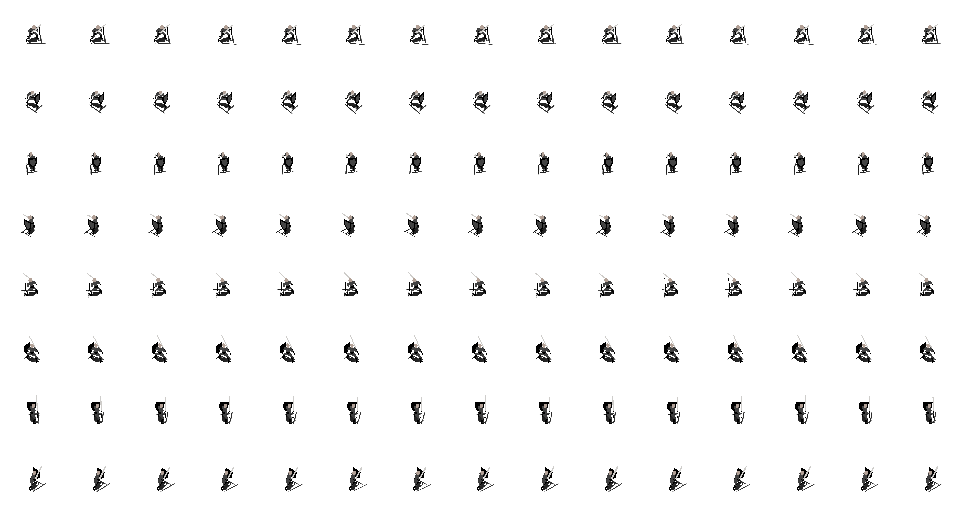
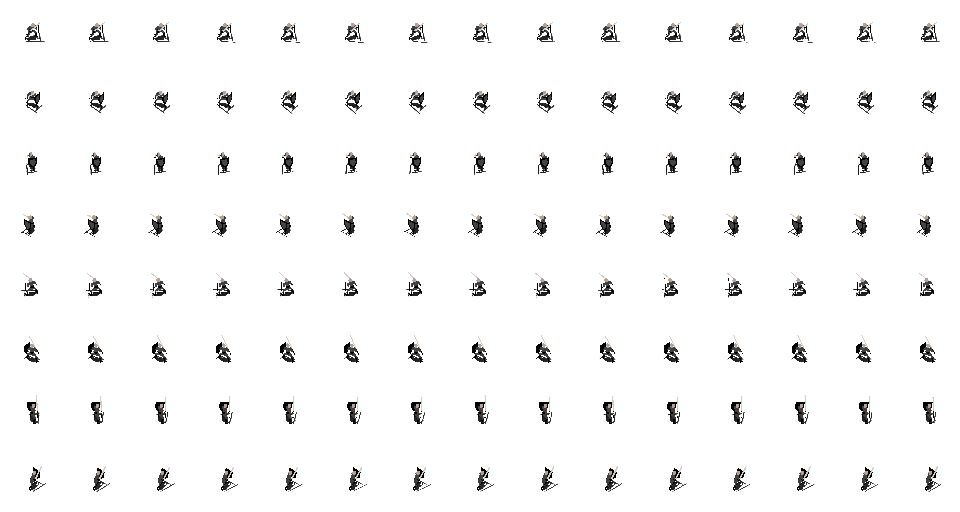
fix

diff --git a/main.go b/main.go
@@ -3,7 +3,6 @@ package main
 import (
 	"image"
 	"log"
-	"math"
 	"strconv"
 
 	"github.com/hajimehoshi/ebiten/v2"
@@ -21,9 +20,8 @@ const (
 	PLAYER_SPEED = 4
 
 	IDLE_ANIM_TPS = 6.0
-	RUN_ANIM_TPS  = 5.0
-	TURN_ANIM_TPS = 1.4
-	STOP_ANIM_TPS = 2.0
+	RUN_ANIM_TPS  = 3.0
+	STOP_ANIM_TPS = 0.5
 )
 
 type Game struct {
@@ -39,41 +37,23 @@ func (g *Game) Update() error {
 
 	inputX, inputY := 0, 0
 
-	if !g.Player.isAnimationLocked {
-		//move player
-		if ebiten.IsKeyPressed(ebiten.KeyRight) || ebiten.IsKeyPressed(ebiten.KeyD) {
-			inputX += 1
-		}
-		if ebiten.IsKeyPressed(ebiten.KeyLeft) || ebiten.IsKeyPressed(ebiten.KeyA) {
-			inputX -= 1
-		}
-		if ebiten.IsKeyPressed(ebiten.KeyUp) || ebiten.IsKeyPressed(ebiten.KeyW) {
-			inputY -= 1
-		}
-		if ebiten.IsKeyPressed(ebiten.KeyDown) || ebiten.IsKeyPressed(ebiten.KeyS) {
-			inputY += 1
-		}
-	} else {
-		// If locked (turning), maintain movement in the current direction
-		v := DirToVector[g.Player.CurrDirection]
-		inputX, inputY = v.X, v.Y
+	//move player
+	if ebiten.IsKeyPressed(ebiten.KeyRight) || ebiten.IsKeyPressed(ebiten.KeyD) {
+		inputX += 1
 	}
-
-	size := math.Sqrt(math.Pow(float64(inputX), 2) + math.Pow(float64(inputY), 2))
-	if size > 0 {
-		speed := float64(PLAYER_SPEED)
-		if g.Player.isAnimationLocked {
-			speed *= 0.1 // Redução de velocidade para o efeito de deslize
-		}
-		g.Player.Dx = (float64(inputX) / size) * speed
-		g.Player.Dy = (float64(inputY) / size) * speed
+	if ebiten.IsKeyPressed(ebiten.KeyLeft) || ebiten.IsKeyPressed(ebiten.KeyA) {
+		inputX -= 1
+	}
+	if ebiten.IsKeyPressed(ebiten.KeyUp) || ebiten.IsKeyPressed(ebiten.KeyW) {
+		inputY -= 1
+	}
+	if ebiten.IsKeyPressed(ebiten.KeyDown) || ebiten.IsKeyPressed(ebiten.KeyS) {
+		inputY += 1
 	}
 
 	g.Player.SetDirection(inputX, inputY)
 	g.Player.SetMode(inputX, inputY)
-
-	g.Player.Xpos += g.Player.Dx
-	g.Player.Ypos += g.Player.Dy
+	g.Player.Move(inputX, inputY)
 
 	animFinished := g.Player.CurrentAnimation().Update()
 
@@ -88,7 +68,7 @@ func (g *Game) Update() error {
 func (g *Game) Draw(screen *ebiten.Image) {
 	//set player position
 	opts := ebiten.DrawImageOptions{}
-	opts.GeoM.Scale(3, 3)
+	opts.GeoM.Scale(5, 5)
 	opts.GeoM.Translate(g.Player.Xpos, g.Player.Ypos)
 
 	//loop over the tilemap layers
@@ -154,19 +134,15 @@ func main() {
 	ebiten.SetWindowResizingMode(ebiten.WindowResizingModeDisabled)
 
 	//player imgs loading
-	idleImg, _, err := ebitenutil.NewImageFromFile("assets/player/Idle.png")
+	idleImg, _, err := ebitenutil.NewImageFromFile("assets/player/Shadowless/Idle2_Shadowless.png")
 	if err != nil {
 		log.Fatal(err)
 	}
-	runImg, _, err := ebitenutil.NewImageFromFile("assets/player/Run.png")
+	runImg, _, err := ebitenutil.NewImageFromFile("assets/player/Shadowless/Run_Shadowless.png")
 	if err != nil {
 		log.Fatal(err)
 	}
-	turnImg, _, err := ebitenutil.NewImageFromFile("assets/player/180Turn.png")
-	if err != nil {
-		log.Fatal(err)
-	}
-	stopImg, _, err := ebitenutil.NewImageFromFile("assets/player/Stop.png")
+	stopImg, _, err := ebitenutil.NewImageFromFile("assets/player/Shadowless/Stop_Shadowless.png")
 	if err != nil {
 		log.Fatal(err)
 	}
@@ -183,14 +159,12 @@ func main() {
 	playerSprisheets := map[PlayerMode]*Spritesheet{
 		Idle: NewSpritesheet(VERTICAL_TILES, HORTIZONTAL_TILES, TILE_SIZE, idleImg),
 		Run:  NewSpritesheet(VERTICAL_TILES, HORTIZONTAL_TILES, TILE_SIZE, runImg),
-		Turn: NewSpritesheet(VERTICAL_TILES, HORTIZONTAL_TILES, TILE_SIZE, turnImg),
 		Stop: NewSpritesheet(VERTICAL_TILES, HORTIZONTAL_TILES, TILE_SIZE, stopImg),
 	}
 
 	playerAnimations := map[PlayerMode]map[PlayerDir]*Animation{
 		Idle: newDirectionalAnimations(IDLE_ANIM_TPS, true),
 		Run:  newDirectionalAnimations(RUN_ANIM_TPS, true),
-		Turn: newDirectionalAnimations(TURN_ANIM_TPS, false),
 		Stop: newDirectionalAnimations(STOP_ANIM_TPS, false),
 	}
 

diff --git a/player.go b/player.go
@@ -5,7 +5,6 @@ type PlayerMode uint8
 const (
 	Idle PlayerMode = iota
 	Run
-	Turn
 	Stop
 )
 
@@ -14,8 +13,6 @@ type Player struct {
 	Dx, Dy            float64
 	Animations        map[PlayerMode]map[PlayerDir]*Animation
 	CurrDirection     PlayerDir
-	turnTargetDir     PlayerDir
-	hasTurnTarget     bool
 	Modes             map[PlayerMode]*Spritesheet
 	CurrMode          PlayerMode
 	isAnimationLocked bool
@@ -30,6 +27,27 @@ func NewPlayer(x, y float64, animations map[PlayerMode]map[PlayerDir]*Animation,
 		Modes:         modes,
 		CurrMode:      Idle,
 	}
+}
+
+func (p *Player) Move(x, y int) {
+	size := 0.0
+	if x != 0 && y != 0 {
+		size = 1.4142 // Movimento diagonal constante
+	} else if x != 0 || y != 0 {
+		size = 1.0 // Movimento reto
+	}
+
+	if size > 0 {
+		speed := float64(PLAYER_SPEED)
+		if p.isAnimationLocked {
+			speed *= 0.3
+		}
+		p.Dx = (float64(x) / size) * speed
+		p.Dy = (float64(y) / size) * speed
+	}
+
+	p.Xpos += p.Dx
+	p.Ypos += p.Dy
 }
 
 func (p *Player) SetDirection(x, y int) {
@@ -51,13 +69,12 @@ func (p *Player) SetDirection(x, y int) {
 		return
 	}
 
-	current := DirToVector[p.CurrDirection]
-	if current.X == -x && current.Y == -y {
-		p.turnTargetDir = dir
-		p.hasTurnTarget = true
-		p.TriggerAction(Turn)
-		return
-	}
+	// APAGUE ESTE BLOCO QUE EXISTIA AQUI:
+	// current := DirToVector[p.CurrDirection]
+	// if current.X == -x && current.Y == -y {
+	// 	p.TriggerAction(Turn)
+	// 	return
+	// }
 
 	if p.CurrDirection == dir {
 		return
@@ -77,11 +94,6 @@ func (p *Player) SetMode(x, y int) {
 		next = Run
 	}
 
-	if p.CurrMode == Run && next == Idle {
-		p.TriggerAction(Stop)
-		return
-	}
-
 	if next != p.CurrMode {
 		p.CurrMode = next
 		p.Animations[p.CurrMode][p.CurrDirection].Reset()
@@ -90,21 +102,24 @@ func (p *Player) SetMode(x, y int) {
 
 func (p *Player) TriggerAction(m PlayerMode) {
 	if !p.isAnimationLocked {
-		p.isAnimationLocked = true
-		p.Animations[m][p.CurrDirection].Reset()
-		p.CurrMode = m
+		if _, ok := p.Animations[m]; ok { // Verifica se o modo existe
+			p.isAnimationLocked = true
+			p.Animations[m][p.CurrDirection].Reset()
+			p.CurrMode = m
+		}
 	}
 }
 
 func (p *Player) CurrentAnimation() *Animation {
-	return p.Animations[p.CurrMode][p.CurrDirection]
-}
-
-func (p *Player) FinishAction() {
-	if p.CurrMode == Turn && p.hasTurnTarget {
-		p.CurrDirection = p.turnTargetDir
-		p.hasTurnTarget = false
+	if anims, ok := p.Animations[p.CurrMode]; ok {
+		if anim, ok := anims[p.CurrDirection]; ok {
+			return anim
+		}
 	}
+	// Retorna animação padrão (Idle) se der problema, evitando crash
+	return p.Animations[Idle][p.CurrDirection]
+}
+func (p *Player) FinishAction() {
 
 	p.CurrMode = Idle
 	p.Animations[p.CurrMode][p.CurrDirection].Reset()

diff --git a/animations.go b/animations.go
@@ -7,11 +7,7 @@ type Animation struct {
 	SpeedInTps   float32
 	FrameCounter float32
 	currFrame    int
-	finished     bool
 	loops        bool
-	rangeFirst   int
-	rangeLast    int
-	hasRange     bool
 }
 
 func NewAnimation(first, last, step int, speed float32, loops bool) *Animation {
@@ -22,7 +18,6 @@ func NewAnimation(first, last, step int, speed float32, loops bool) *Animation {
 		SpeedInTps:   speed,
 		FrameCounter: 0,
 		currFrame:    first,
-		finished:     false,
 		loops:        loops,
 	}
 }
@@ -32,72 +27,28 @@ func (a *Animation) Frame() int {
 }
 
 func (a *Animation) Update() bool {
-	if a.finished {
-		return true
-	}
+	a.FrameCounter -= 1.0
+	if a.FrameCounter < 0.0 {
+		a.FrameCounter = a.SpeedInTps
+		a.currFrame += a.Step
 
-	first := a.FirstFrame
-	last := a.LastFrame
-	if a.hasRange {
-		first = a.rangeFirst
-		last = a.rangeLast
-	}
+		if a.currFrame > a.LastFrame {
+			if a.loops {
+				a.Reset()
+			} else {
+				a.currFrame = a.LastFrame
+				return true
+			}
 
-	if a.SpeedInTps <= 0 {
-		a.SpeedInTps = 1
-	}
-
-	a.FrameCounter += 1.0
-	if a.FrameCounter < a.SpeedInTps {
-		return false
-	}
-
-	a.FrameCounter = 0
-	a.currFrame += a.Step
-
-	pastEnd := (a.Step >= 0 && a.currFrame > last) || (a.Step < 0 && a.currFrame < last)
-	if pastEnd {
-		if a.loops {
-			a.currFrame = first
-		} else {
-			a.currFrame = last
-			a.finished = true
-			return true
 		}
 	}
-
 	return false
 }
 
 func (a *Animation) Reset() {
-	if a.hasRange {
-		a.currFrame = a.rangeFirst
-	} else {
-		a.currFrame = a.FirstFrame
-	}
-	a.FrameCounter = 0
-	a.finished = false
+	a.currFrame = a.FirstFrame
 }
 
 func (a *Animation) SetLoop(condition bool) {
 	a.loops = condition
-	if condition {
-		a.finished = false
-	}
-}
-
-func (a *Animation) SetRange(first, last int) {
-	if a.Step >= 0 && first > last {
-		first, last = last, first
-	}
-	if a.Step < 0 && first < last {
-		first, last = last, first
-	}
-	a.rangeFirst = first
-	a.rangeLast = last
-	a.hasRange = true
-}
-
-func (a *Animation) ClearRange() {
-	a.hasRange = false
 }
